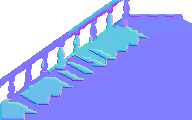
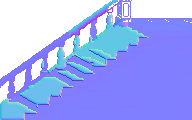
Обрыв балкона — дорисовка PixelLab поверх сцены (мост осыпается на скалу), перила лестницы кончаются столбом; план: кот Фуджин и библиотека
Claude-Session: https://claude.ai/code/session_01NZaKJV7VXAQHZfGwN3MbH5

Changed region(s): [[0.5625, 0.0, 1.0, 0.2]]

diff --git a/src/background.js b/src/background.js
@@ -19,7 +19,7 @@ const DECOR_IMG = {
 const PROP_IMG = { barrel: 1, crate: 2, sack: 1, chest: 1, bones: 2,
   sofa: 1, table: 1, chair: 1, armchair: 1, pew: 1, bench: 1, desk: 1, stool: 1, guardtable: 1, stall: 1, rug: 1,
   bedroll: 1, pot: 1, letter: 1, candles: 1, lute: 1, logbook: 1, bouquet: 1, loot: 1 };
-export const OBJECTS = ['door_wood', 'door_iron', 'door_bars', 'door_hole', 'prop_chest_open', 'bonepile', 'stairs', 'balustrade', 'stainedglass', 'prop_altar', 'lika_sit', 'lika_sit_1', 'lika_wave', 'prop_campfire', 'prop_cup', 'slime', 'slime_squash', 'slime_stretch', 'decor_chandelier', 'gate_bars', 'gate_door', 'decor_portrait_king', 'decor_portrait_mage', 'decor_sigil', 'decor_cracked',
+export const OBJECTS = ['door_wood', 'door_iron', 'door_bars', 'door_hole', 'prop_chest_open', 'bonepile', 'stairs', 'balustrade', 'stainedglass', 'prop_altar', 'lika_sit', 'lika_sit_1', 'lika_wave', 'prop_campfire', 'prop_cup', 'slime', 'slime_squash', 'slime_stretch', 'decor_chandelier', 'gate_bars', 'gate_door', 'decor_portrait_king', 'decor_portrait_mage', 'decor_sigil', 'decor_cracked', 'balcony_cliff',
   ...Object.entries(PROP_IMG).flatMap(([t, n]) => Array.from({ length: n }, (_, i) => 'prop_' + t + (i ? '_' + i : ''))),
   ...Object.entries(DECOR_IMG).flatMap(([t, [n]]) => Array.from({ length: n }, (_, i) => 'decor_' + t + (i ? '_' + i : '')))];
 const obj = {};
@@ -477,70 +477,19 @@ function drawStairs(g, x0, floorTop, tiled = false, blocked = false) {
 // балкон в разрешении экрана: каменные перила картинкой, с проломом; справа пол обрывается в пропасть
 function drawBalconyTiled(g, length, height, floorTop) {
   const im = objImg('balustrade');
-  const edge = length - 44;
-  // край плиты (v0.74): ломаная с углами, а не волна; y — от линии стены к зрителю
-  const H2 = height - floorTop;
-  const EDGE = [[0, 0], [5, -3], [10, 4], [17, -1], [24, 6], [30, 2], [37, 9], [44, 4], [51, 11], [58, 7], [70, 12]];
-  const edgeX = y => {
-    const t = y - floorTop;
-    for (let i = 1; i < EDGE.length; i++) if (t <= EDGE[i][0]) {
-      const [y0, x0] = EDGE[i - 1], [y1, x1] = EDGE[i];
-      return Math.round(edge + x0 + (x1 - x0) * (t - y0) / (y1 - y0));
-    }
-    return edge + EDGE[EDGE.length - 1][1];
-  };
-  if (im) {
-    // перила — до самого края, последний пролёт обрублен и надломлен (владелец: «чуть-чуть подрушенная колонна»)
-    const w = im.width / 2, ih = im.height / 2, y0 = floorTop - ih + 2, end = edge - 1;
-    for (let x = 0, i = 0; x < end; x += w, i++) {
-      if (i % 4 === 2) continue;   // пролом
-      const cw = Math.min(w, end - x);
-      g.drawImage(im, 0, 0, cw * 2, im.height, x, y0, cw, ih);
-      if (x + w >= end) {
-        // обломанный конец: вырван кусок перил сверху и сбоку, у подножия — каменная крошка
-        for (const [dx, dy, ww, hh] of [[-3, 0, 4, 3], [-2, 3, 3, 2], [-6, 0, 3, 1], [-1, 5, 2, 4]]) g.clearRect(end + dx, y0 + dy, ww, hh);
-        for (const [dx, dy, sz] of [[-8, ih - 1, 2], [-4, ih, 3], [1, ih + 1, 2]]) { rect(g, end + dx, y0 + dy, sz, sz - 1, '#8a8299'); rect(g, end + dx, y0 + dy, sz, 1, '#b0a8bc'); }
-      }
-    }
+  // обрыв (v0.74, владелец): конец балкона обломан и опирается на скалу, уступы уходят вниз, внизу — ельник.
+  // Картинка — дорисовка PixelLab по маске поверх настоящей сцены (tools/pixellab_cliff.py), поэтому срастается с полом
+  // и перилами. Кусок сцены 320×320 px экрана = мир (240, 20)…(400, 180); маска — правая часть ниже перил наискось.
+  const cliff = objImg('balcony_cliff');
+  if (im) for (let x = 0, i = 0; x < length; x += im.width / 2, i++) if (i % 4 !== 2) g.drawImage(im, x, floorTop - im.height / 2 + 2, im.width / 2, im.height / 2);
+  if (!cliff || globalThis.knightNightNoCliff) return;
+  const CX = 240, CY = 20;
+  for (let y = 140; y < 320; y++) {
+    const x0 = CX + (110 - (y - 140) * 0.12) / 2;
+    g.clearRect(x0, CY + y / 2, length - x0 + 1, 0.5);
+    normalPair.get(g)?.clearRect(x0 * 2, (CY + y / 2) * 2, (length - x0 + 1) * 2, 1);
   }
-  // за краем — пусто: сквозь холст фона видна долина далеко внизу (её рисует render из дальнего плана)
-  for (let y = floorTop; y < height; y++) g.clearRect(edgeX(y), y, length - edgeX(y) + 2, 1);
-  // скальный склон под балконом: глыбы со светом сверху-слева и тенью снизу-справа, ниже — мельче и темнее
-  const blob = (cx, cy, rx, ry, base, lite, dark) => {
-    for (let dy = -ry; dy <= ry; dy++) {
-      const hw = Math.round(rx * Math.sqrt(1 - (dy / ry) ** 2) * (1 - 0.25 * (dy / ry)));
-      if (hw <= 0) continue;
-      const y = cy + dy;
-      rect(g, cx - hw - 1, y, hw * 2 + 2, 1, '#151220');
-      rect(g, cx - hw, y, hw * 2, 1, base);
-      if (dy < -ry / 3) rect(g, cx - hw, y, Math.max(1, hw), 1, lite);
-      if (dy > ry / 4) rect(g, cx, y, hw, 1, dark);
-    }
-  };
-  const ROCKS = [[8, 6, 9, 6], [16, 18, 10, 8], [10, 30, 8, 7], [22, 40, 12, 9], [12, 52, 9, 8], [26, 60, 13, 9], [34, 26, 7, 6]];
-  for (const [dx, dy, rx, ry] of ROCKS) {
-    const y = floorTop + dy, f = dy / H2;
-    const sh = v => `rgb(${Math.round(v[0] * (1 - f * 0.35))},${Math.round(v[1] * (1 - f * 0.35))},${Math.round(v[2] * (1 - f * 0.3))})`;
-    blob(edgeX(y) + dx, y + 4, rx, ry, sh([62, 55, 80]), sh([96, 88, 118]), sh([38, 32, 52]));
-  }
-  // толщина обломанной плиты: каменный торец вдоль края, светлая кромка сверху, тёмный низ; швы кладки
-  for (let y = floorTop; y < height; y++) {
-    const x = edgeX(y), t = (y - floorTop) % 9;
-    rect(g, x, y, 5, 1, t === 0 ? '#2a2438' : '#463e5a');
-    rect(g, x + 4, y, 1, 1, '#1c1828');
-    rect(g, x - 1, y, 1, 1, '#7a7294');      // кромка пола
-  }
-  // обломки плиты, торчащие наружу под разными углами: верхняя грань светлая, торец тёмный
-  for (const [dy, len, tilt] of [[3, 7, -2], [21, 9, 2], [39, 6, -1], [55, 8, 3]]) {
-    const y = floorTop + dy, x = edgeX(y);
-    for (let i = 0; i < len; i++) {
-      const yy = y + Math.round(i * tilt / len);
-      rect(g, x + i, yy, 1, 2, '#6a6288');
-      rect(g, x + i, yy + 2, 1, 3, '#3a3448');
-      rect(g, x + i, yy + 5, 1, 1, '#151220');
-    }
-    rect(g, x + len, y + tilt, 1, 5, '#151220');
-  }
+  drawObj(g, cliff, CX + 80, CY + 160);
 }
 
 function drawBalcony(g, length, height, floorTop, rand) {

diff --git a/src/main.js b/src/main.js
@@ -2876,14 +2876,6 @@ function render() {
   const farImg = r.far && (farImgs[r.far] ??= Object.assign(new Image(), { src: r.far }));
   if (farImg?.complete && farImg.naturalWidth && (bgFor(game.room).k ?? 1) === 2) {
     g.drawImage(farImg, 0, 0, farImg.width / 2, farImg.height / 2);
-    // под обрывом (v0.74): долина далеко внизу — нижняя полоса дальнего плана продолжается вниз, темнее к краю экрана
-    const ft = CONFIG.floorTop, band = 40;
-    g.drawImage(farImg, 0, (ft - band) * 2, farImg.width, band * 2, 0, ft, farImg.width / 2, H - ft);
-    const dk = g.createLinearGradient(0, ft, 0, H);
-    dk.addColorStop(0, 'rgba(20,16,36,0.05)');
-    dk.addColorStop(1, 'rgba(20,16,36,0.35)');
-    g.fillStyle = dk;
-    g.fillRect(0, ft, W, H - ft);
   }
   const bg = bgFor(game.room), bk = bg.k ?? 1;
   g.drawImage(bg, cam * bk, 0, W * bk, H * bk, 0, 0, W, H);
@@ -3906,4 +3898,4 @@ requestAnimationFrame(frame);
 
 // для автотестов в браузере
 window.knightNight = game;
-window.knightNightDebug = { groundY, input, ROOMS };   // для ботов-тестеров
+window.knightNightDebug = { groundY, input, ROOMS, bgFor };   // для ботов-тестеров

diff --git a/src/config.js b/src/config.js
@@ -578,7 +578,7 @@ export const ROOMS = {
   },
   // тупик: обрыв и вид на долину, деревню, поля и леса — туда рыцарь пойдёт во второй локации
   balcony: {
-    name: 'Обрушенный балкон', tiles: 'castle', far: 'assets/backgrounds/balcony/far.png', length: 400, balcony: true, torches: [], limitRight: 348,  // дальше — обрыв; far — даль за перилами (v0.67)
+    name: 'Обрушенный балкон', tiles: 'castle', far: 'assets/backgrounds/balcony/far.png', length: 400, balcony: true, torches: [], limitRight: 318,  // дальше — обрыв; far — даль за перилами (v0.67)
     edges: { left: { to: 'dining', x: 450, name: 'Столовая' } },
     encounters: [
       { x: 240, story: 'commander', before: 'commander_meet', after: 'balcony_after', enemies: [{ type: 'commander', dx: 40, z: 22 }] },

diff --git a/tools/pixellab_cliff.py b/tools/pixellab_cliff.py
@@ -1,0 +1,29 @@
+# Обрыв балкона (v0.74): PixelLab дорисовывает по маске настоящую сцену (пол, перила, даль), чтобы скала срослась с ней.
+# Вход: scene.png (640×360: дальний план + фон комнаты без обрыва, globalThis.knightNightNoCliff) и mask.png.
+# Запуск: python3 tools/pixellab_cliff.py <scene.png> <out_prefix> [seed]
+import sys, os
+sys.path.insert(0, os.path.dirname(os.path.abspath(__file__)))
+from pixellab import *
+
+scene, out = sys.argv[1], sys.argv[2]
+X0, Y0, S = 320, 40, 320          # кусок сцены у правого края: здесь кончается балкон
+MX, MY = int(os.environ.get('MX', 205)), int(os.environ.get('MY', 150))   # маска: левый край и верх (в пикселях куска)
+im = Image.open(scene).convert('RGBA').crop((X0, Y0, X0 + S, Y0 + S))
+ctx = out + '_ctx.png'; im.save(ctx)
+mask = Image.new('RGBA', (S, S), (0, 0, 0, 255)); px = mask.load()
+for y in range(S):
+    for x in range(S):
+        # что дорисовать: правая часть от линии перил вниз; граница — наискось (обломки уходят вниз вправо)
+        if y >= MY and x >= MX - (y - MY) * 0.12: px[x, y] = (255, 255, 255, 255)
+mp = out + '_mask.png'; mask.save(mp)
+img, sz = b64img(ctx); msk, _ = b64img(mp)
+desc = os.environ.get('DESC') or ('the end of an old stone castle balcony is broken off: the stone floor slab and the stone balustrade crumble at the edge '
+        'into jagged broken masonry blocks, the broken end rests on a massive rugged mountain rock cliff, the rock steps down '
+        'in angular ledges and boulders toward the bottom right, a steep drop to a valley and dark pine forest far below, '
+        'pixel art side view, light from the upper left: bright top faces of ledges, dark purple-brown crevices, same palette and '
+        'pixel size as the surrounding image, no fog')
+body = {'description': desc, 'inpainting_image': {'image': img, 'size': {'width': sz[0], 'height': sz[1]}},
+        'mask_image': {'image': msk, 'size': {'width': sz[0], 'height': sz[1]}}}
+if len(sys.argv) > 3: body['seed'] = int(sys.argv[3])
+paths = run('/inpaint-v3', body, out)
+print(paths)

diff --git a/docs/design.md b/docs/design.md
@@ -161,8 +161,10 @@
 - Бочка в Коридоре не стоит «на голове» у арбалетчика.
 - Лестница с дверью на площадке (владелец): дверь выходила за край площадки — теперь вровень с ним; балясины
   на площадке убраны («колонны перед дверью»), перила — только вдоль ступеней.
-- Обрыв на балконе (владелец: «странно, колонны над обрывом»): перила кончаются до края; за рваным краем плиты —
-  пусто, видна долина далеко внизу (дальний план) в дымке, вместо зелёной заливки.
+- Обрыв на балконе (владелец): конец моста трескается, осыпается и садится на скалу, перила надломлены, уступы уходят
+  вниз к ельнику. Картинка — дорисовка PixelLab по маске поверх настоящей сцены (`tools/pixellab_cliff.py`, inpaint-v3),
+  поэтому срастается с полом и перилами; над линией пола небо — дальний план. Без дымки.
+- Перила лестницы заканчиваются столбом у верхней ступени (дорисовка PixelLab по маске), площадка открыта.
 
 ## v0.73: разворот к угрозе, свежая версия по ссылке
 

diff --git a/docs/plan-chapter1.md b/docs/plan-chapter1.md
@@ -65,6 +65,15 @@
 
 ---
 
+## Идеи владельца для ночи (голосовые — копятся здесь, делаю ночью)
+
+- **Кот Фуджин (14.10)** — живой (не призрак) чёрный кот с жёлтыми глазами: крупный, спортивный, не толстый, милый
+  и озорной. Сидит на одном из столов в библиотеке. Говорить не будет; «разговор» — ремарками («кот фыркнул»,
+  «кот утвердительно кивнул»), потом — сценки (куда-то идёт, что-то делает). Что именно он делает — владелец
+  придумает позже.
+- **Библиотека заброшенная (14.10)** — очень много книг, несколько столов, бумаги и записки на полу, потушенная свеча,
+  которую можно зажечь; часть книг и записок читается. Возможно — отдельная комната библиотеки, где живёт кот.
+
 ## Б. Комнаты — чего добавить (сам, декор без вопросов)
 
 - **Камера:** солома, ведро, миска, цепи на стене, следы на полу у портала.
